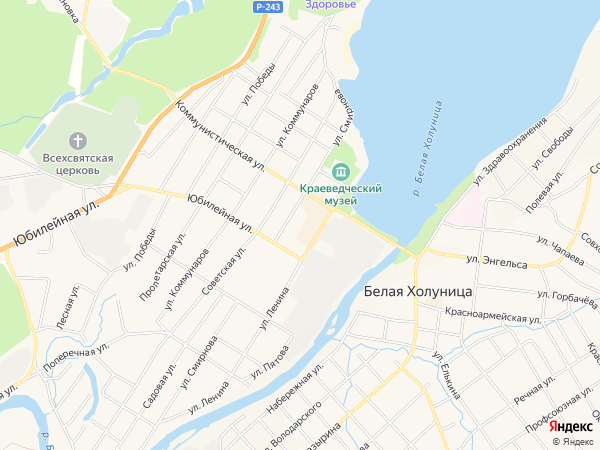
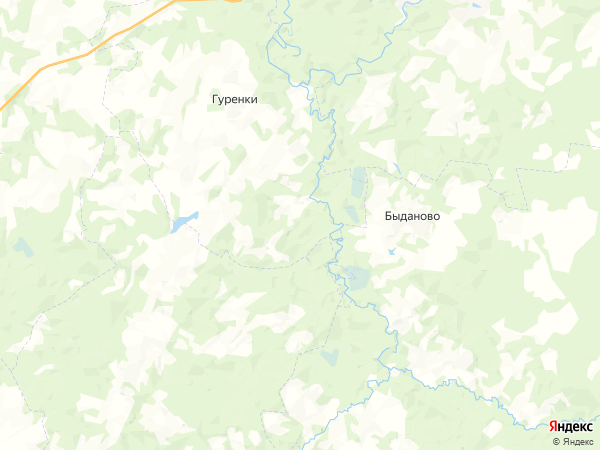
+Класс моё окно9

diff --git a/windows.py b/windows.py
@@ -13,7 +13,7 @@ class MainWindow(QMainWindow, Ui_MainWindow):
         self.setupUi(self)
         self.coord = (50.842588, 58.846908)
         self.delta = 17
-        self.step = 0.005
+        self.step = 0.001
         self.karta = YandexAPI()
         self.ready()
 
@@ -31,9 +31,11 @@ class MainWindow(QMainWindow, Ui_MainWindow):
     def keyPressEvent(self, event):
         if event.key() == QtCore.Qt.Key.Key_Up and self.delta < 17:
             self.delta += 1
+            self.step *= 0.5
             self.ready()
         elif event.key() == QtCore.Qt.Key.Key_Down and self.delta > 1:
             self.delta -= 1
+            self.step *= 2
             self.ready()
         elif event.key() == QtCore.Qt.Key.Key_D:
             self.coord = (self.coord[0] + self.step) % 360, self.coord[1]
